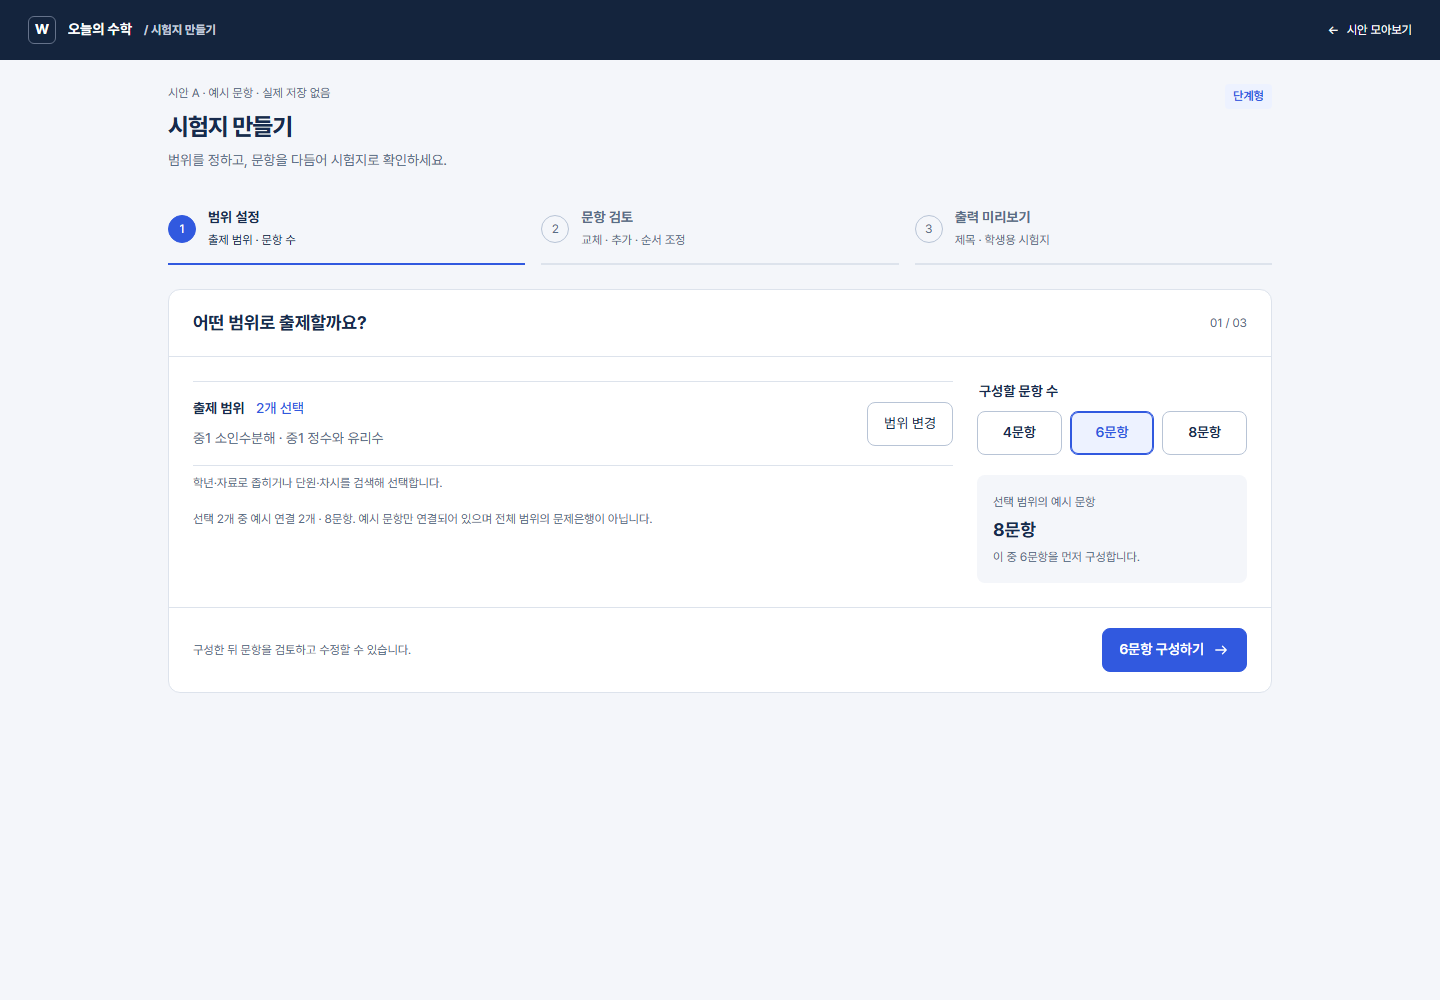
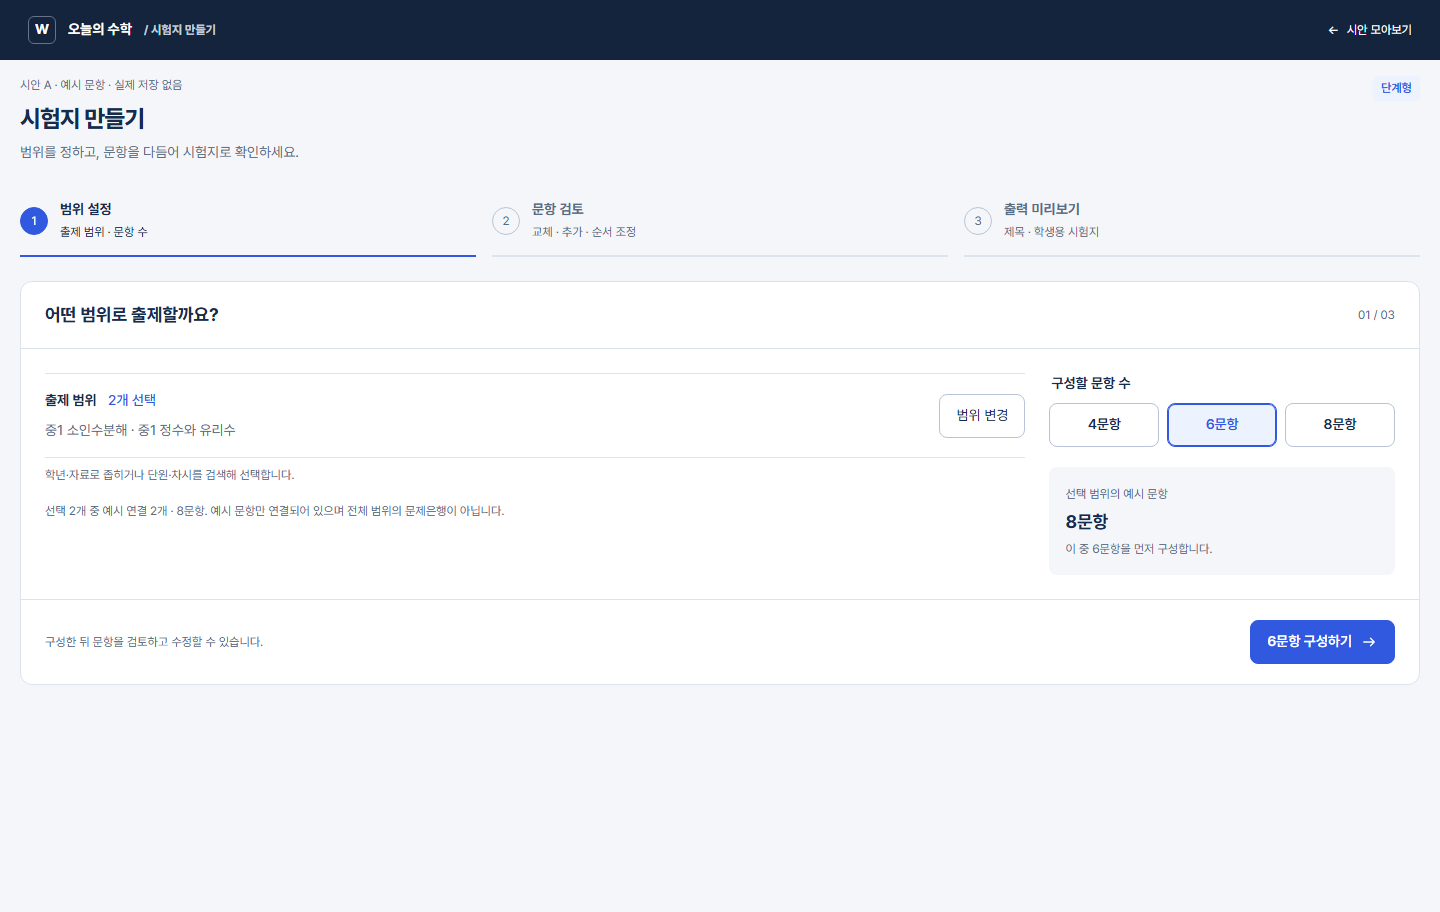
Use available width in guided exam concept and stack at 860px

diff --git a/docs/design/mockups/exam-builder-common-20261008/a-guided.html b/docs/design/mockups/exam-builder-common-20261008/a-guided.html
@@ -247,9 +247,10 @@
         color: #c4cddd;
       }
       .wrap {
-        max-width: 1160px;
+        width: 100%;
+        max-width: none;
         margin: 0 auto;
-        padding: 24px 28px 40px;
+        padding: 16px 20px;
       }
       .workbench.wrap {
         max-width: 1440px;
@@ -338,7 +339,7 @@
       }
       .scope-layout {
         display: grid;
-        grid-template-columns: minmax(0, 1fr) 270px;
+        grid-template-columns: minmax(0, 1fr) clamp(280px, 24vw, 360px);
         gap: 24px;
         margin-top: 0;
       }
@@ -446,6 +447,10 @@
         font-weight: 600;
         overflow-wrap: anywhere;
         word-break: keep-all;
+      }
+      .guided-review .q-copy,
+      .guided-review .passage {
+        max-width: 78ch;
       }
       .options {
         display: grid;
@@ -841,10 +846,6 @@
         break-after: avoid;
       }
       @media (min-width: 1000px) {
-        .guided-review {
-          max-width: 900px;
-          margin: auto;
-        }
         .workbench .question-list {
           gap: 12px;
         }
@@ -866,15 +867,8 @@
         .workbench .q-tools > .row {
           gap: 4px;
         }
-        .wrap {
-          padding: 20px;
-        }
-        .scope-layout {
-          grid-template-columns: minmax(0, 1fr) 240px;
-          gap: 24px;
-        }
       }
-      @media (max-width: 700px) {
+      @media (max-width: 860px) {
         .topbar {
           padding: 6px 16px;
           gap: 8px;
@@ -883,7 +877,7 @@
           display: none;
         }
         .wrap {
-          padding: 20px 16px 28px;
+          padding: 14px 16px;
         }
         .pagehead {
           margin-bottom: 20px;
@@ -902,7 +896,7 @@
         }
         .panelbody,
         .panelhead {
-          padding: 20px;
+          padding: 16px;
         }
         .step {
           gap: 8px;
@@ -993,9 +987,6 @@
         }
       }
       @media (max-width: 360px) {
-        .wrap {
-          padding: 16px 12px 24px;
-        }
         .panelbody,
         .panelhead {
           padding: 16px;
